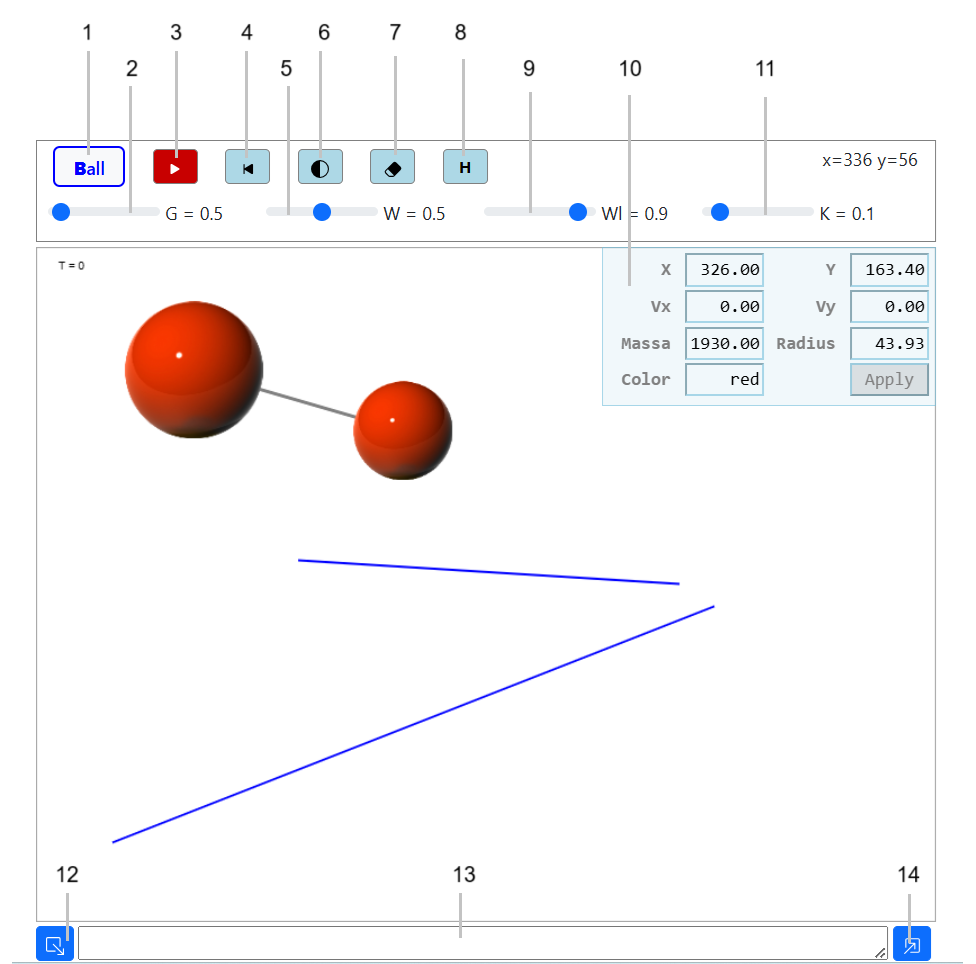
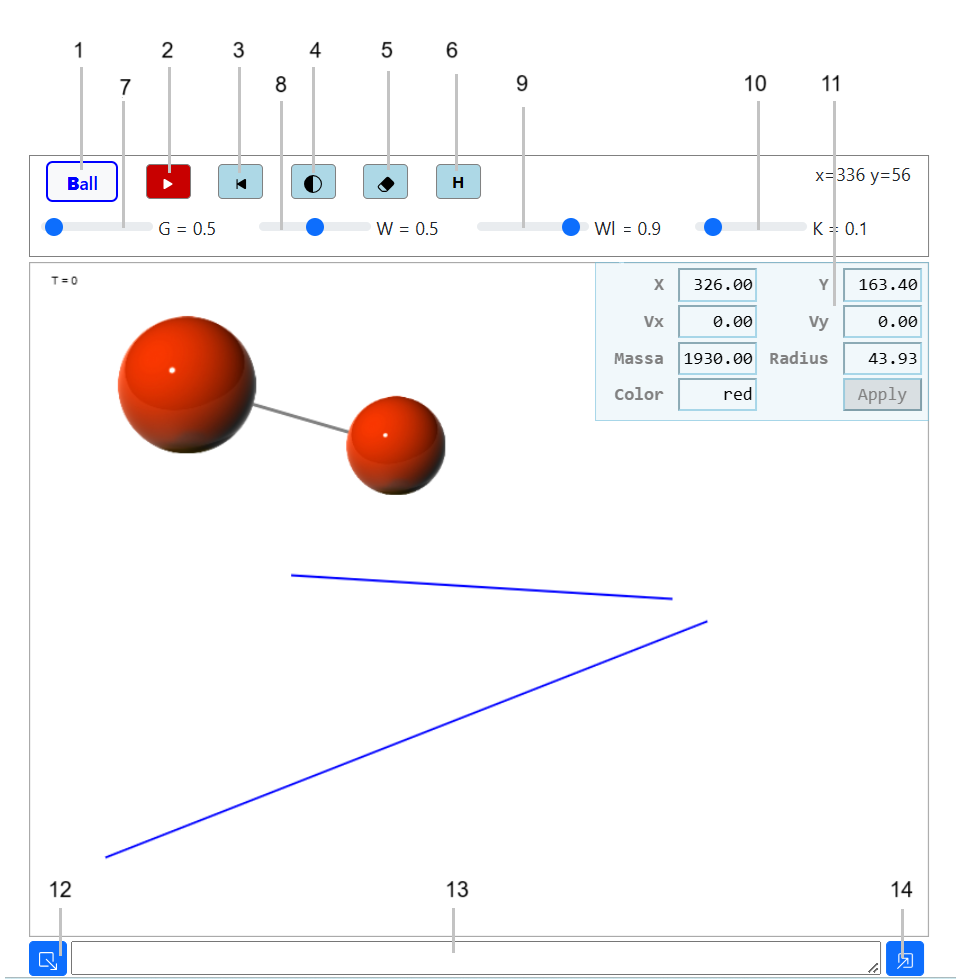
.

diff --git a/help.html b/help.html
@@ -19,6 +19,23 @@
     <h1>Help</h1>
     <img src="./assets/img/help.png" width="400" height="400"/>
   </div>
+  <div class="container"> 
+    <p> 1 - кнопка перемикання режиму створення об'єктів: Ball Line Link</p>
+    <p> 2 - кнопка запуску і зупинки дискретного часу</p>
+    <p> 3 - кнопка відновлення попереднього стану</p>
+    <p> 4 - кнопка перемикання режиму відображення</p>
+    <p> 5 - кнопка очистки робочого простору</p>
+    <p> 6 - кнопка допомоги</p>
+    <p> 7 - слайдер сили тяжіння</p>
+    <p> 8 - слайдер втрат від деформації куль</p>
+    <p> 9 - слайдер втрат від деформаціїзв'язків</p>
+    <p> 10 - слайдер модуля пружності</p>
+    <p> 11 - панель параметрів кулі або лінії</p>
+    <p> 12 - кнопка збереження сцени</p>
+    <p> 13 - поле редагування збереженої сцени</p>
+    <p> 14 - кнопка завантаження сцени</p>
+    
+  </div>
 </body>
 
 </html>
